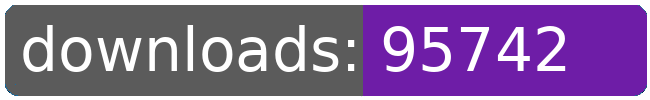
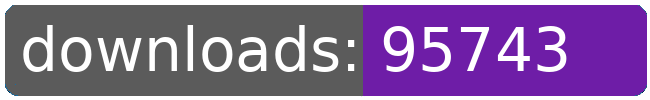
dl log written

Changed region(s): [[0.8308, 0.42, 0.8923, 0.72], [0.8, 0.27, 0.8615, 0.33]]

diff --git a/README.md b/README.md
@@ -21,8 +21,8 @@
 		<td>6743</td>
 		<td>6758</td>
 		<td>6769</td>
-		<td>6777</td>
-		<td>+ 8</td>
+		<td>6778</td>
+		<td>+ 9</td>
 	</tr>
 	<tr>
 		<td>aberrant.kahet.outfitter</td>
@@ -274,8 +274,8 @@
 		<td></td>
 		<td></td>
 		<td></td>
-		<td>95742</td>
-		<td>177</td>
+		<td>95743</td>
+		<td>178</td>
 	</tr>
 </table>
 </sub></sup>
@@ -300,8 +300,8 @@
 		<td>6743</td>
 		<td>6758</td>
 		<td>6769</td>
-		<td>6777</td>
-		<td>+ 8</td>
+		<td>6778</td>
+		<td>+ 9</td>
 	</tr>
 	<tr>
 		<td>aberrant.kahet.outfitter</td>
@@ -553,8 +553,8 @@
 		<td></td>
 		<td></td>
 		<td></td>
-		<td>95742</td>
-		<td>177</td>
+		<td>95743</td>
+		<td>178</td>
 	</tr>
 </table>
 </sub></sup>